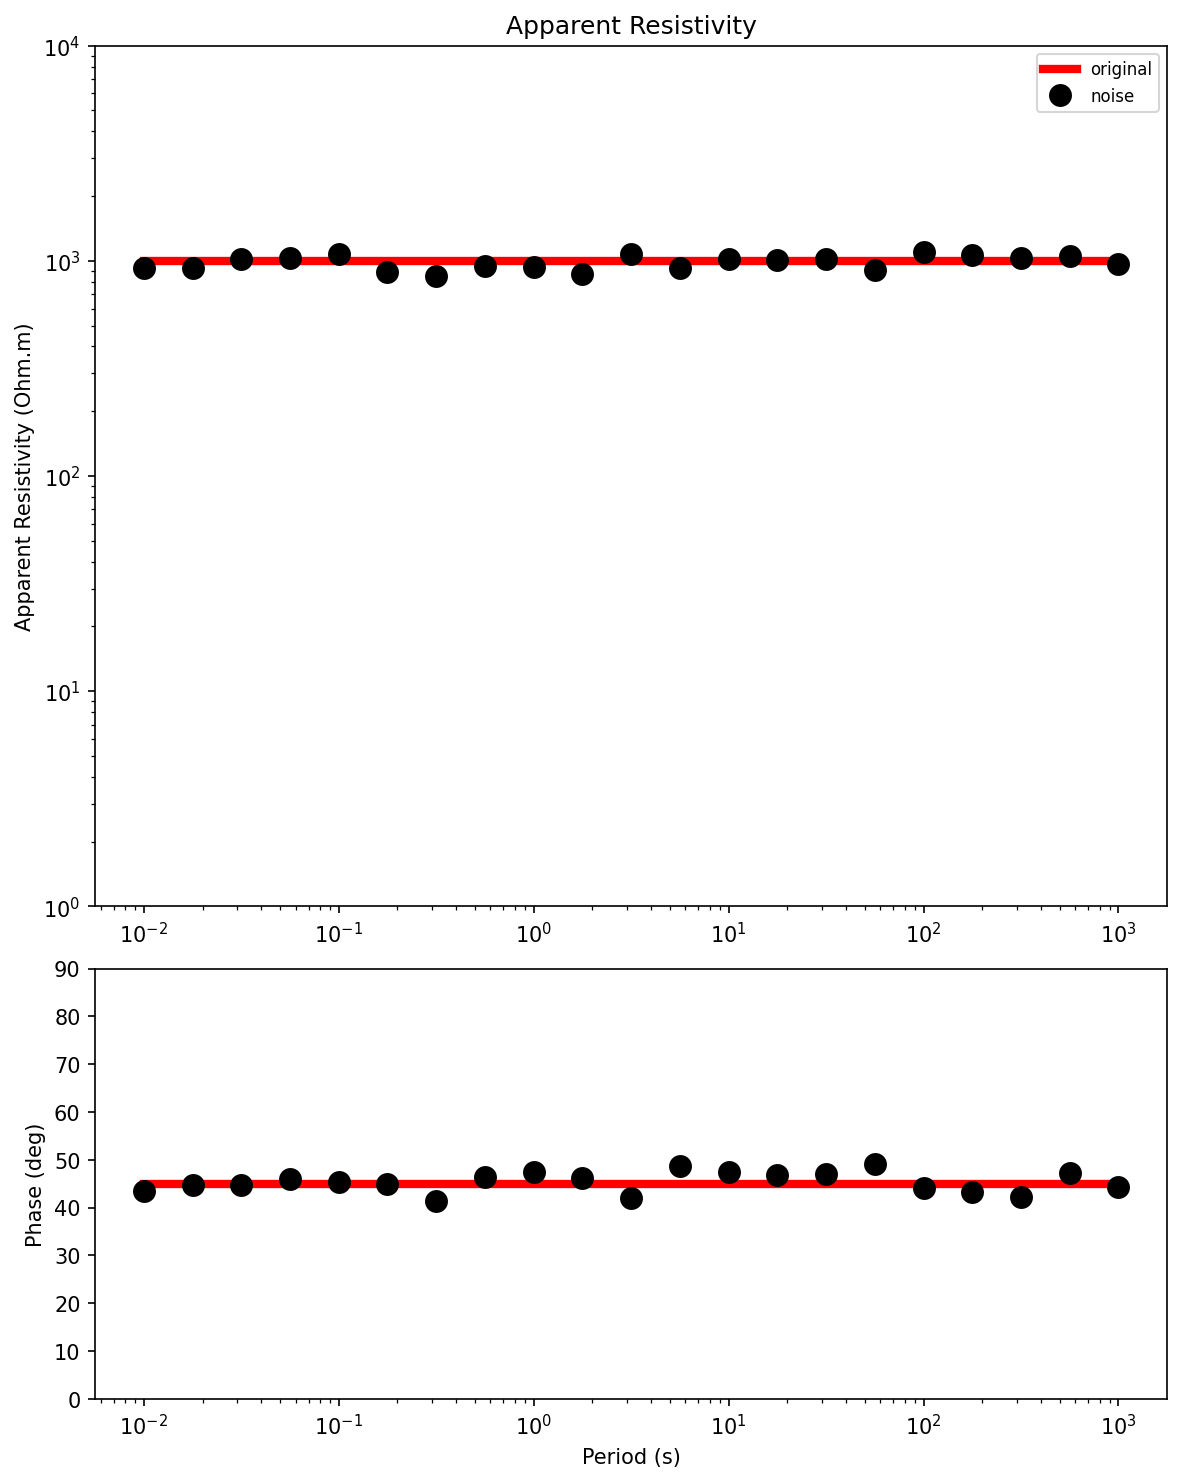
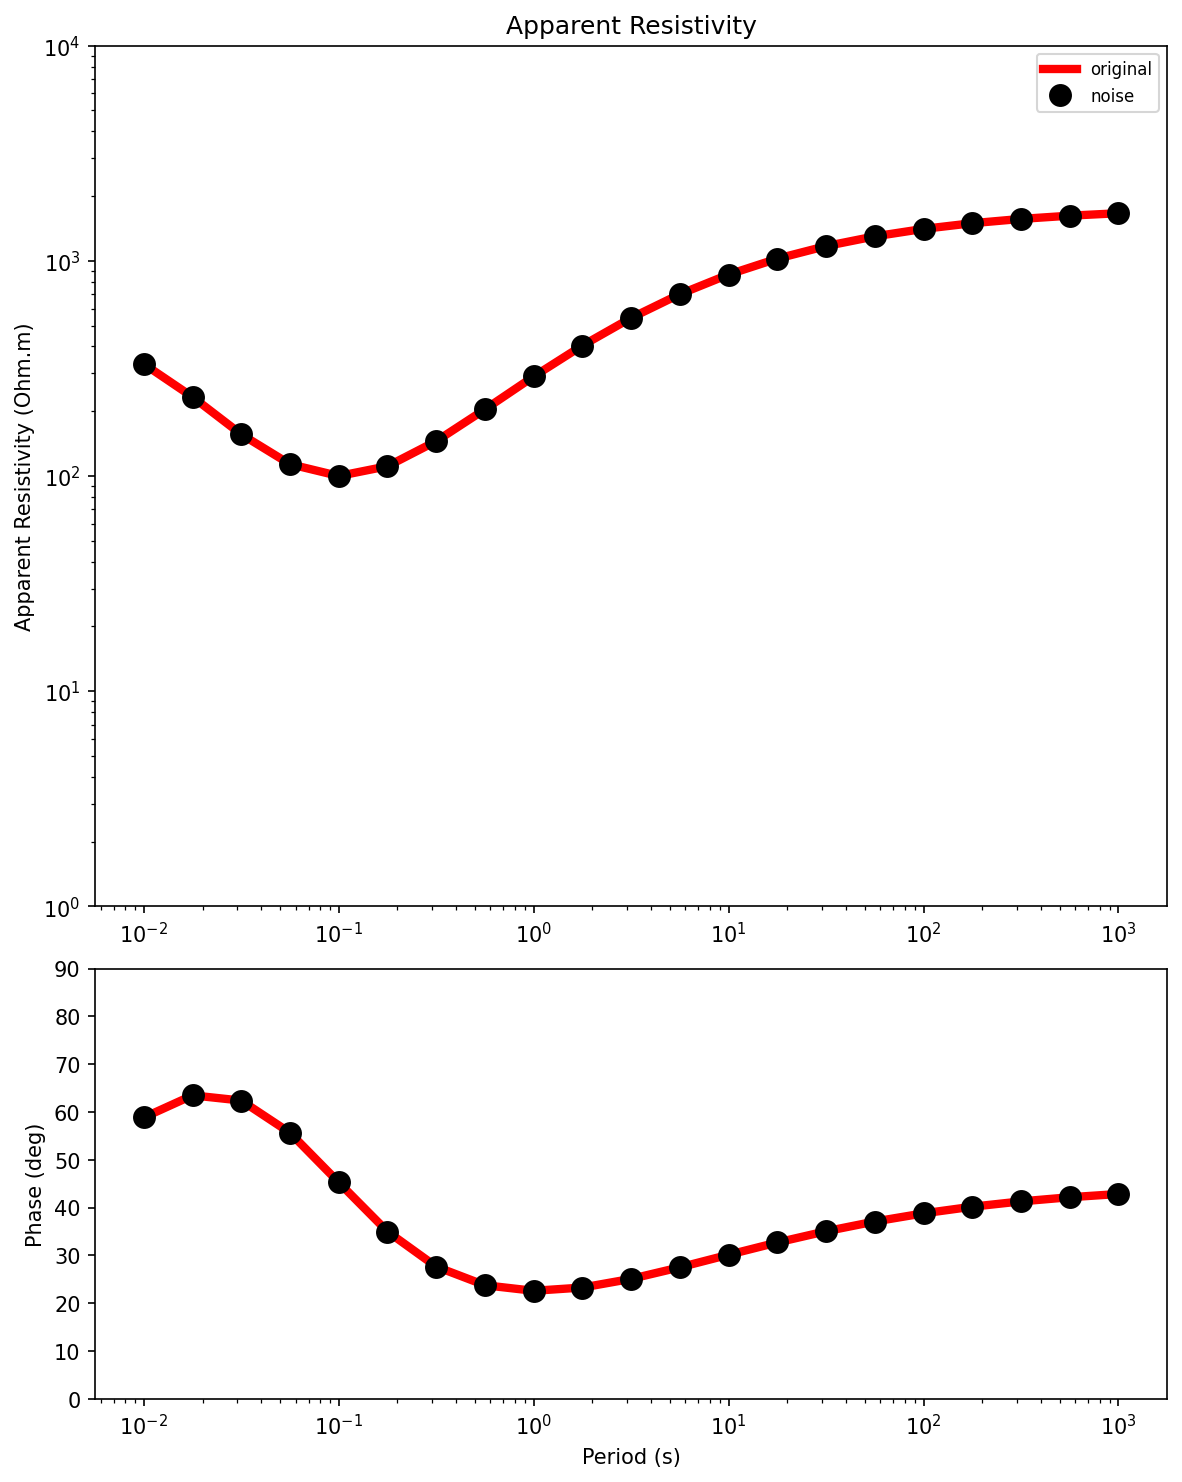
sedikit perubahan

diff --git a/LM/main.py b/LM/main.py
@@ -112,8 +112,8 @@ plt.plot(x, Mfit, label='Trend Misfit', zorder=1)
 plt.scatter(x, Mfit, color="r", s=20, label='Data Poin', zorder=2)
 
 plt.xlabel('Iterasi')
-plt.ylabel('Misfit (RMS)')
-plt.title('Grafik Konvergensi: Misfit vs Iterasi')
+plt.ylabel('Misfit')
+plt.title('LM: Misfit vs Iterasi')
 plt.grid(True, linestyle='--', alpha=0.6)
 plt.legend()
 plt.show()
@@ -167,7 +167,7 @@ ax1.loglog(periods, apparent_resistivities,
 
 ax1.loglog(periods, fapparent_resistivities,
            'r-', linewidth=3, label='Best Fit')
-
+ax1.set_ylim(1e1, 1e3)
 ax1.set_xlabel("Period (s)")
 ax1.set_ylabel("Apparent Resistivity (Ω·m)")
 ax1.set_title("Apparent Resistivity")

diff --git a/main.py b/main.py
@@ -115,3 +115,8 @@ corner_plot(
     best_model=best_model,
     true_model=true_model,
 )
+
+print("mean", results.mean)
+print("smple mean err", results.sample_mean_error)
+print("cov", results.covariance)
+print("sample cov err", results.sample_covariance_error)
